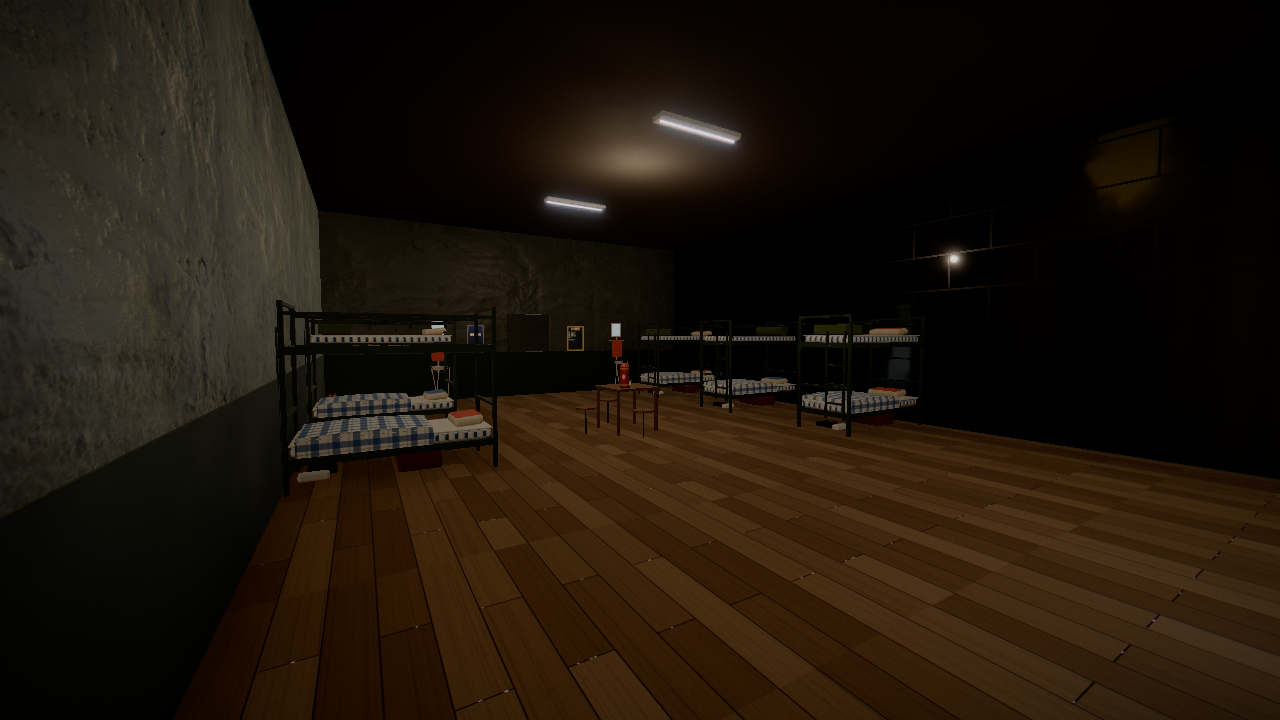
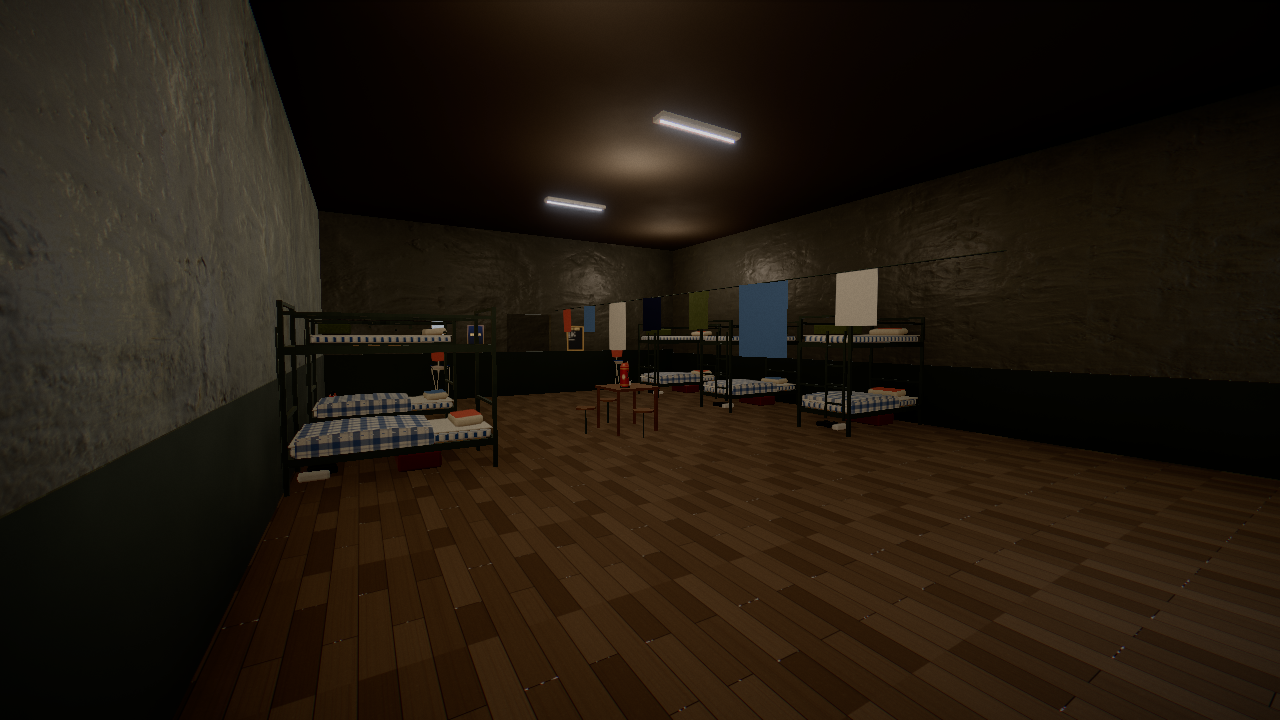
M7 宿舍复拍 m7/dorm_*

diff --git a/docs/HANDOFF.md b/docs/HANDOFF.md
@@ -13,3 +13,5 @@
 - [06:33] 步骤1完成：a0f3b73 推送，Pages success，Drive 快照已更新（注：sandbox 缺 brotli，已 pip install brotli）
 - [06:55] 宿舍改造代码完成（src/world/dorm.js 新建；surface.js 勒脚改环形——金色镜面根因是 annex 实心 0.5m Marble016 石台盖住地坪；dorm envI 0.22）；正在拍 m7 dorm_* 4 张
 - [07:20] 宿舍第二轮：外墙内衬、207 加室友空铺/书架/暖气片/地毯/衣钩、101 晾衣绳+补光；已 build；下一步复拍 dorm 4 张
+- 技巧：长命令后台用 `( setsid nohup bash tools/shotq.sh ... > /tmp/x.log 2>&1 < /dev/null & )`，再 sleep 轮询日志；普通 nohup & 会在 shell 超时时被杀。1280×720 medium 每张约 100–330 s。
+- [07:45] 宿舍完成（m7/dorm_lobby, dorm_room, dorm_101b, dorm_207）。下一步：walk.mjs 走查
